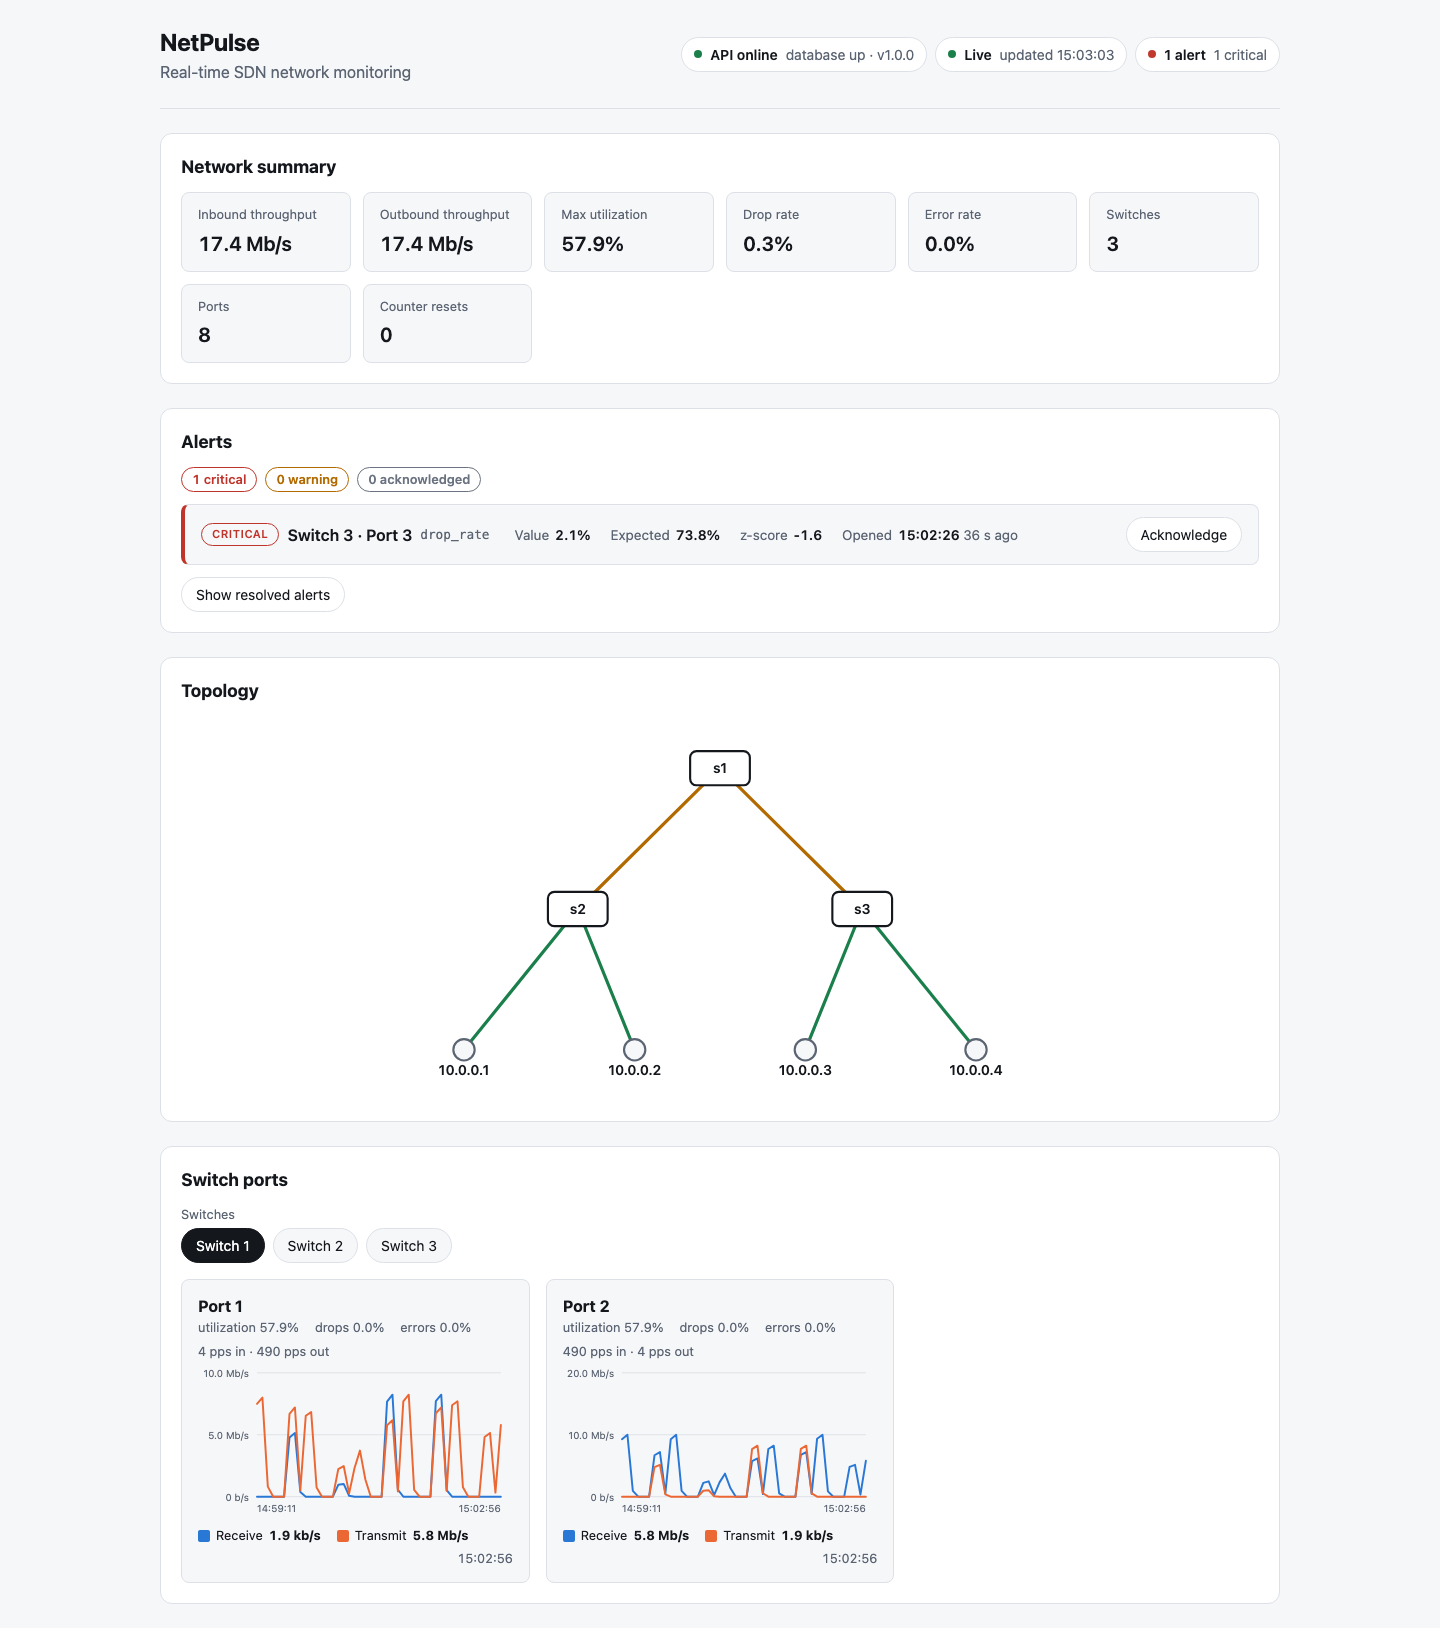
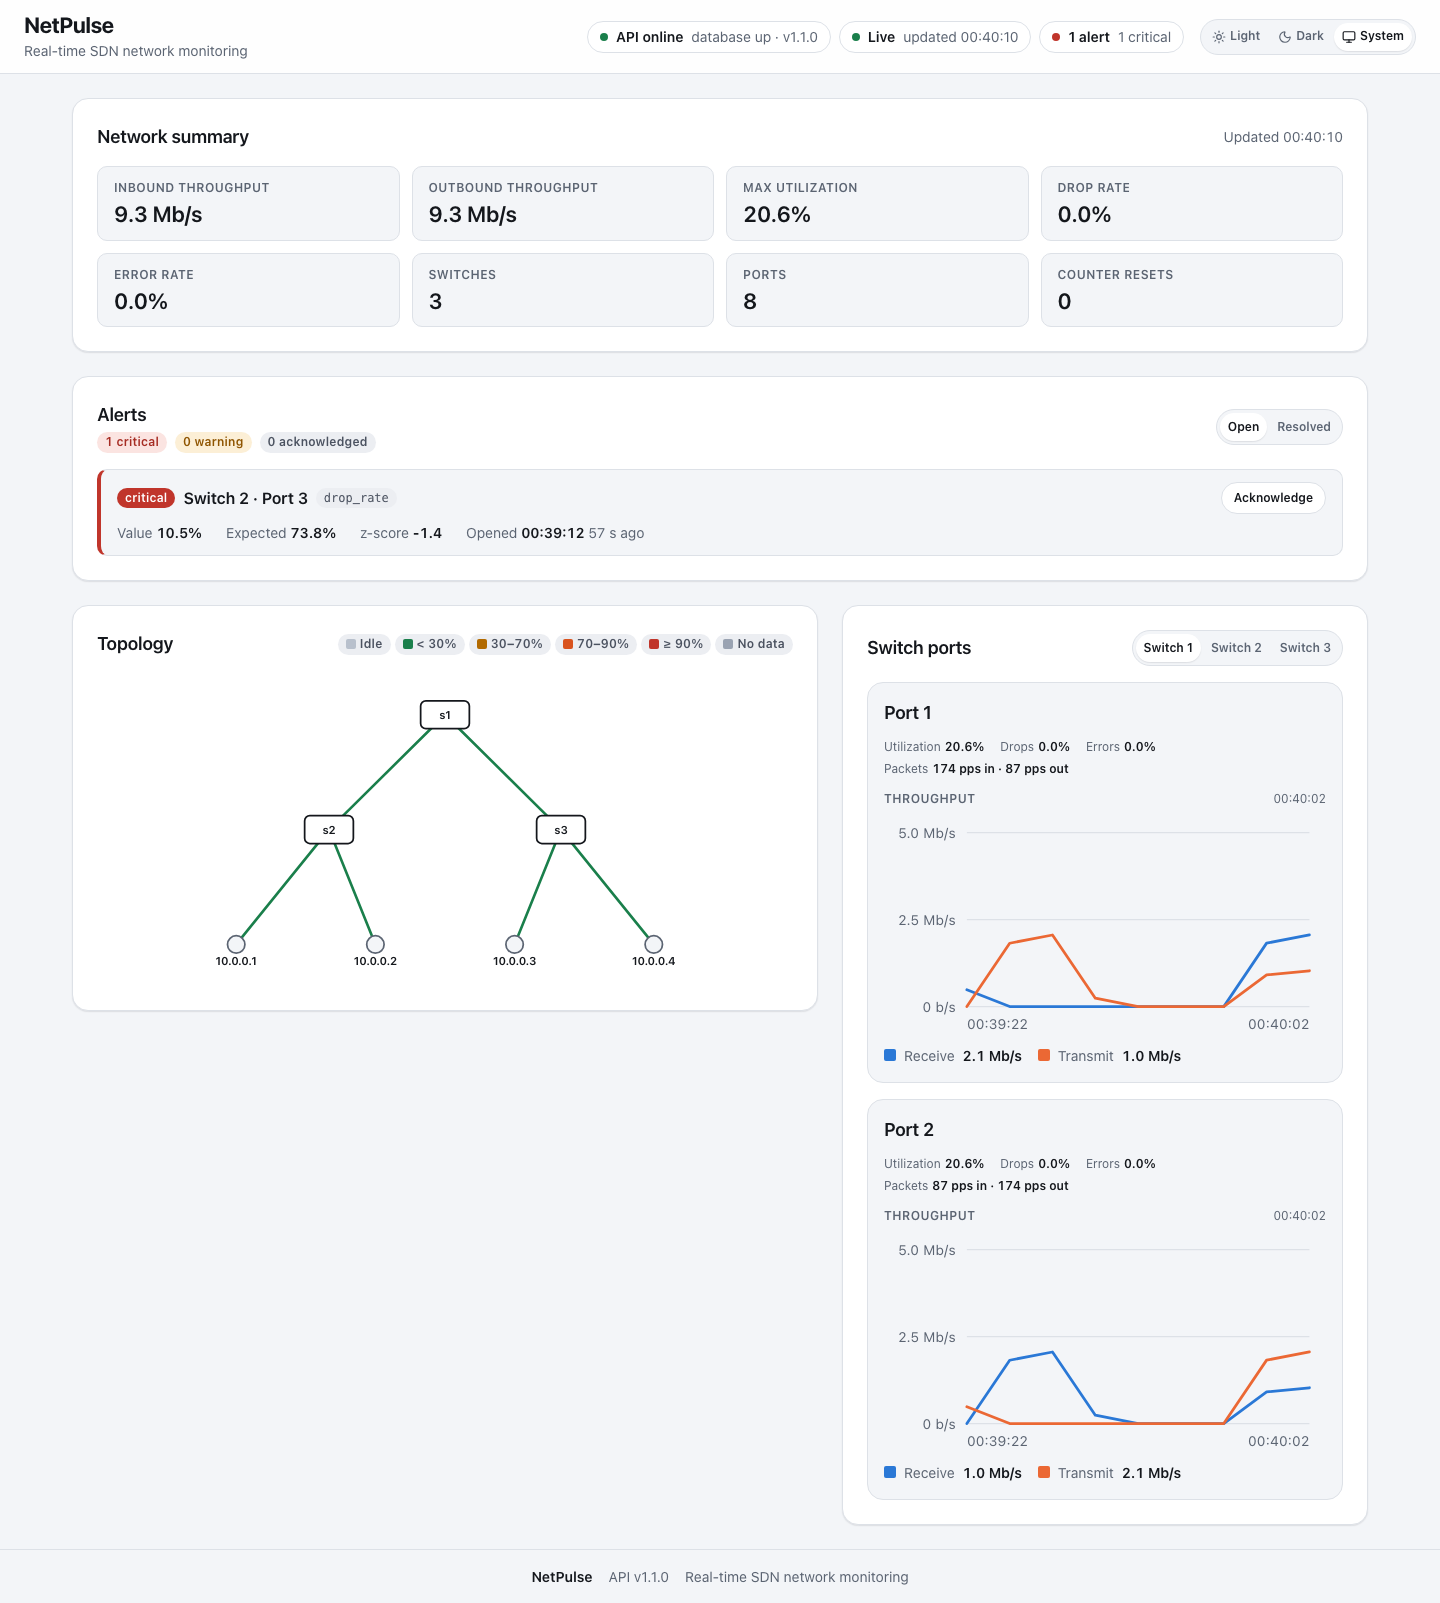
docs: recapture the dashboard images on the 1.1.0 build

diff --git a/README.md b/README.md
@@ -27,7 +27,7 @@ Charts and the topology graph are hand-rolled SVG with no chart library. The fir
 
 The header carries a theme selector with light, dark and system modes; the choice is persisted in the browser and applied before the first paint, so a reload never flashes the other palette. The layout is responsive down to phone widths, and every panel shows a loading skeleton while its first data arrives, an empty state when there is nothing to show and an error state with a retry action when the API is unreachable.
 
-![The full dashboard page while a host-down fault is open: header badges for API and database reachability, live status and one critical alert; network summary cards with throughput, utilization, drop and error rates, switches, ports and counter resets; the alerts panel with a single critical drop_rate alert on switch 3 port 3 showing its value, expected value, z-score, opening time and an acknowledge button; the tree topology of three switches and four hosts labelled by IP address with links colored by utilization; and the receive and transmit throughput charts of the two ports of switch 1](docs/images/dashboard-alerts.png)
+![The full dashboard page while a critical alert is open: header badges for API and database reachability, live status and one critical alert; network summary cards with throughput, utilization, drop and error rates, switches, ports and counter resets; the alerts panel with a single critical drop_rate alert on switch 2 port 3 showing its value, expected value, z-score, opening time and an acknowledge button; the tree topology of three switches and four hosts labelled by IP address with links colored by utilization; and the receive and transmit throughput charts of the two ports of switch 1](docs/images/dashboard-alerts.png)
 
 ## Architecture
 
